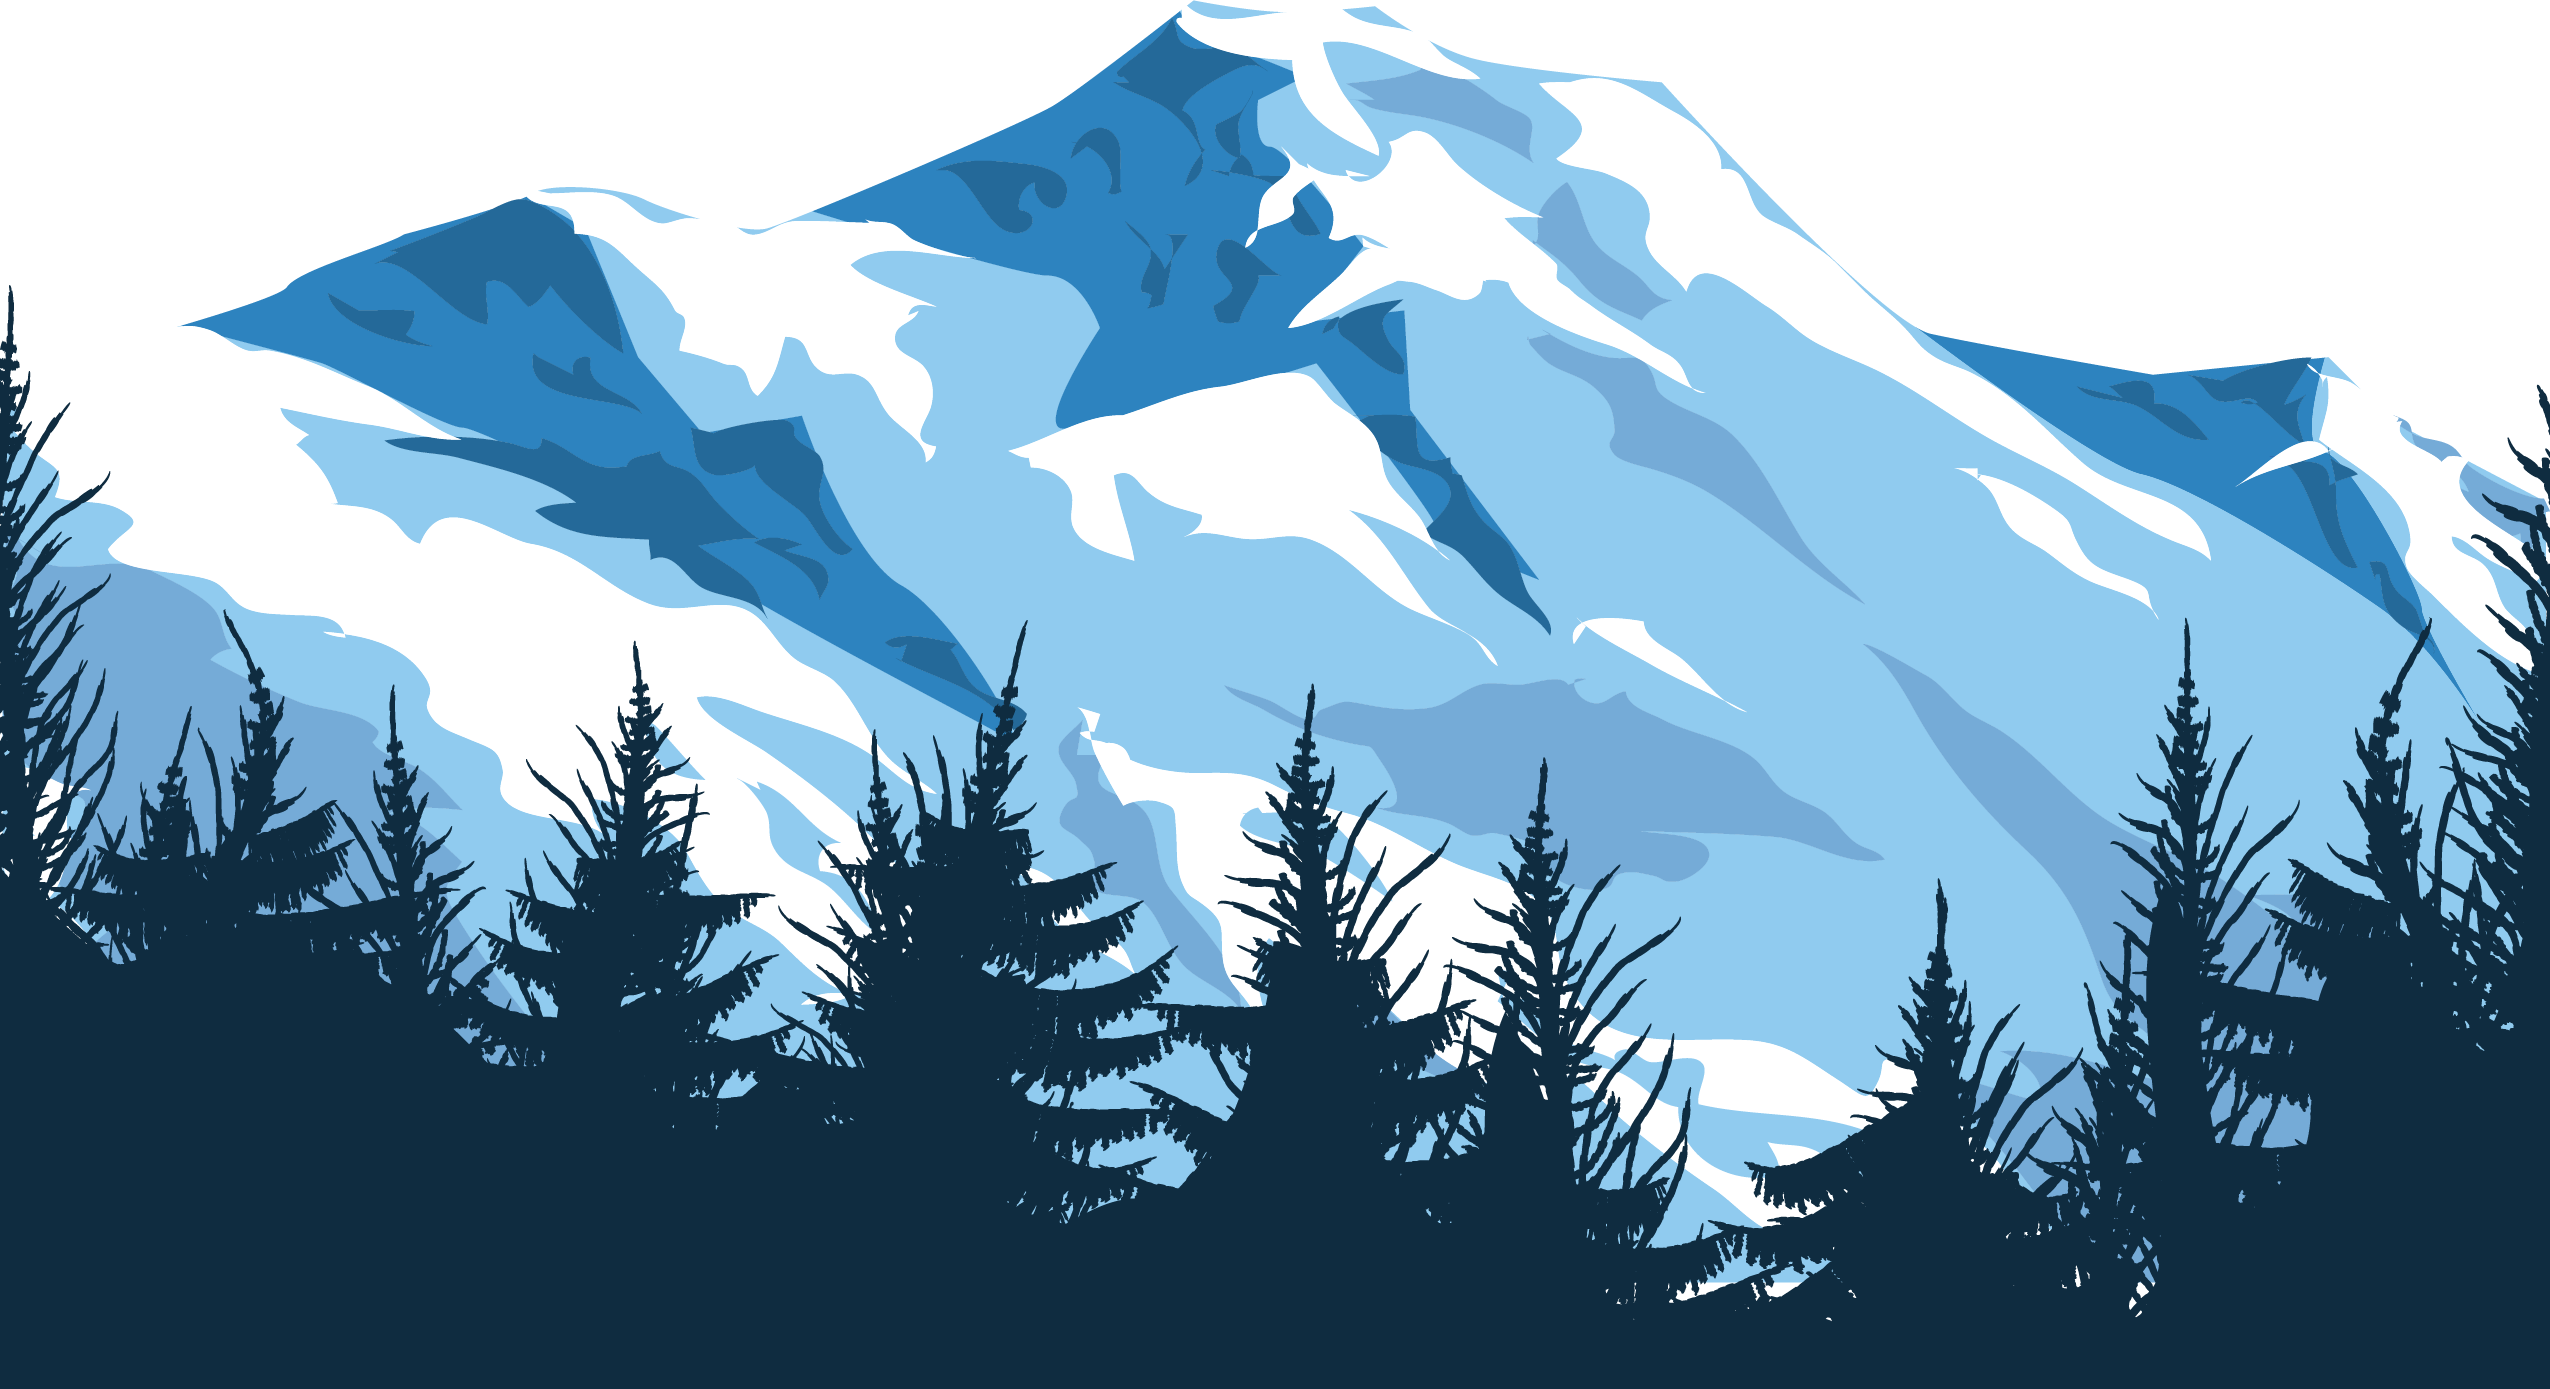
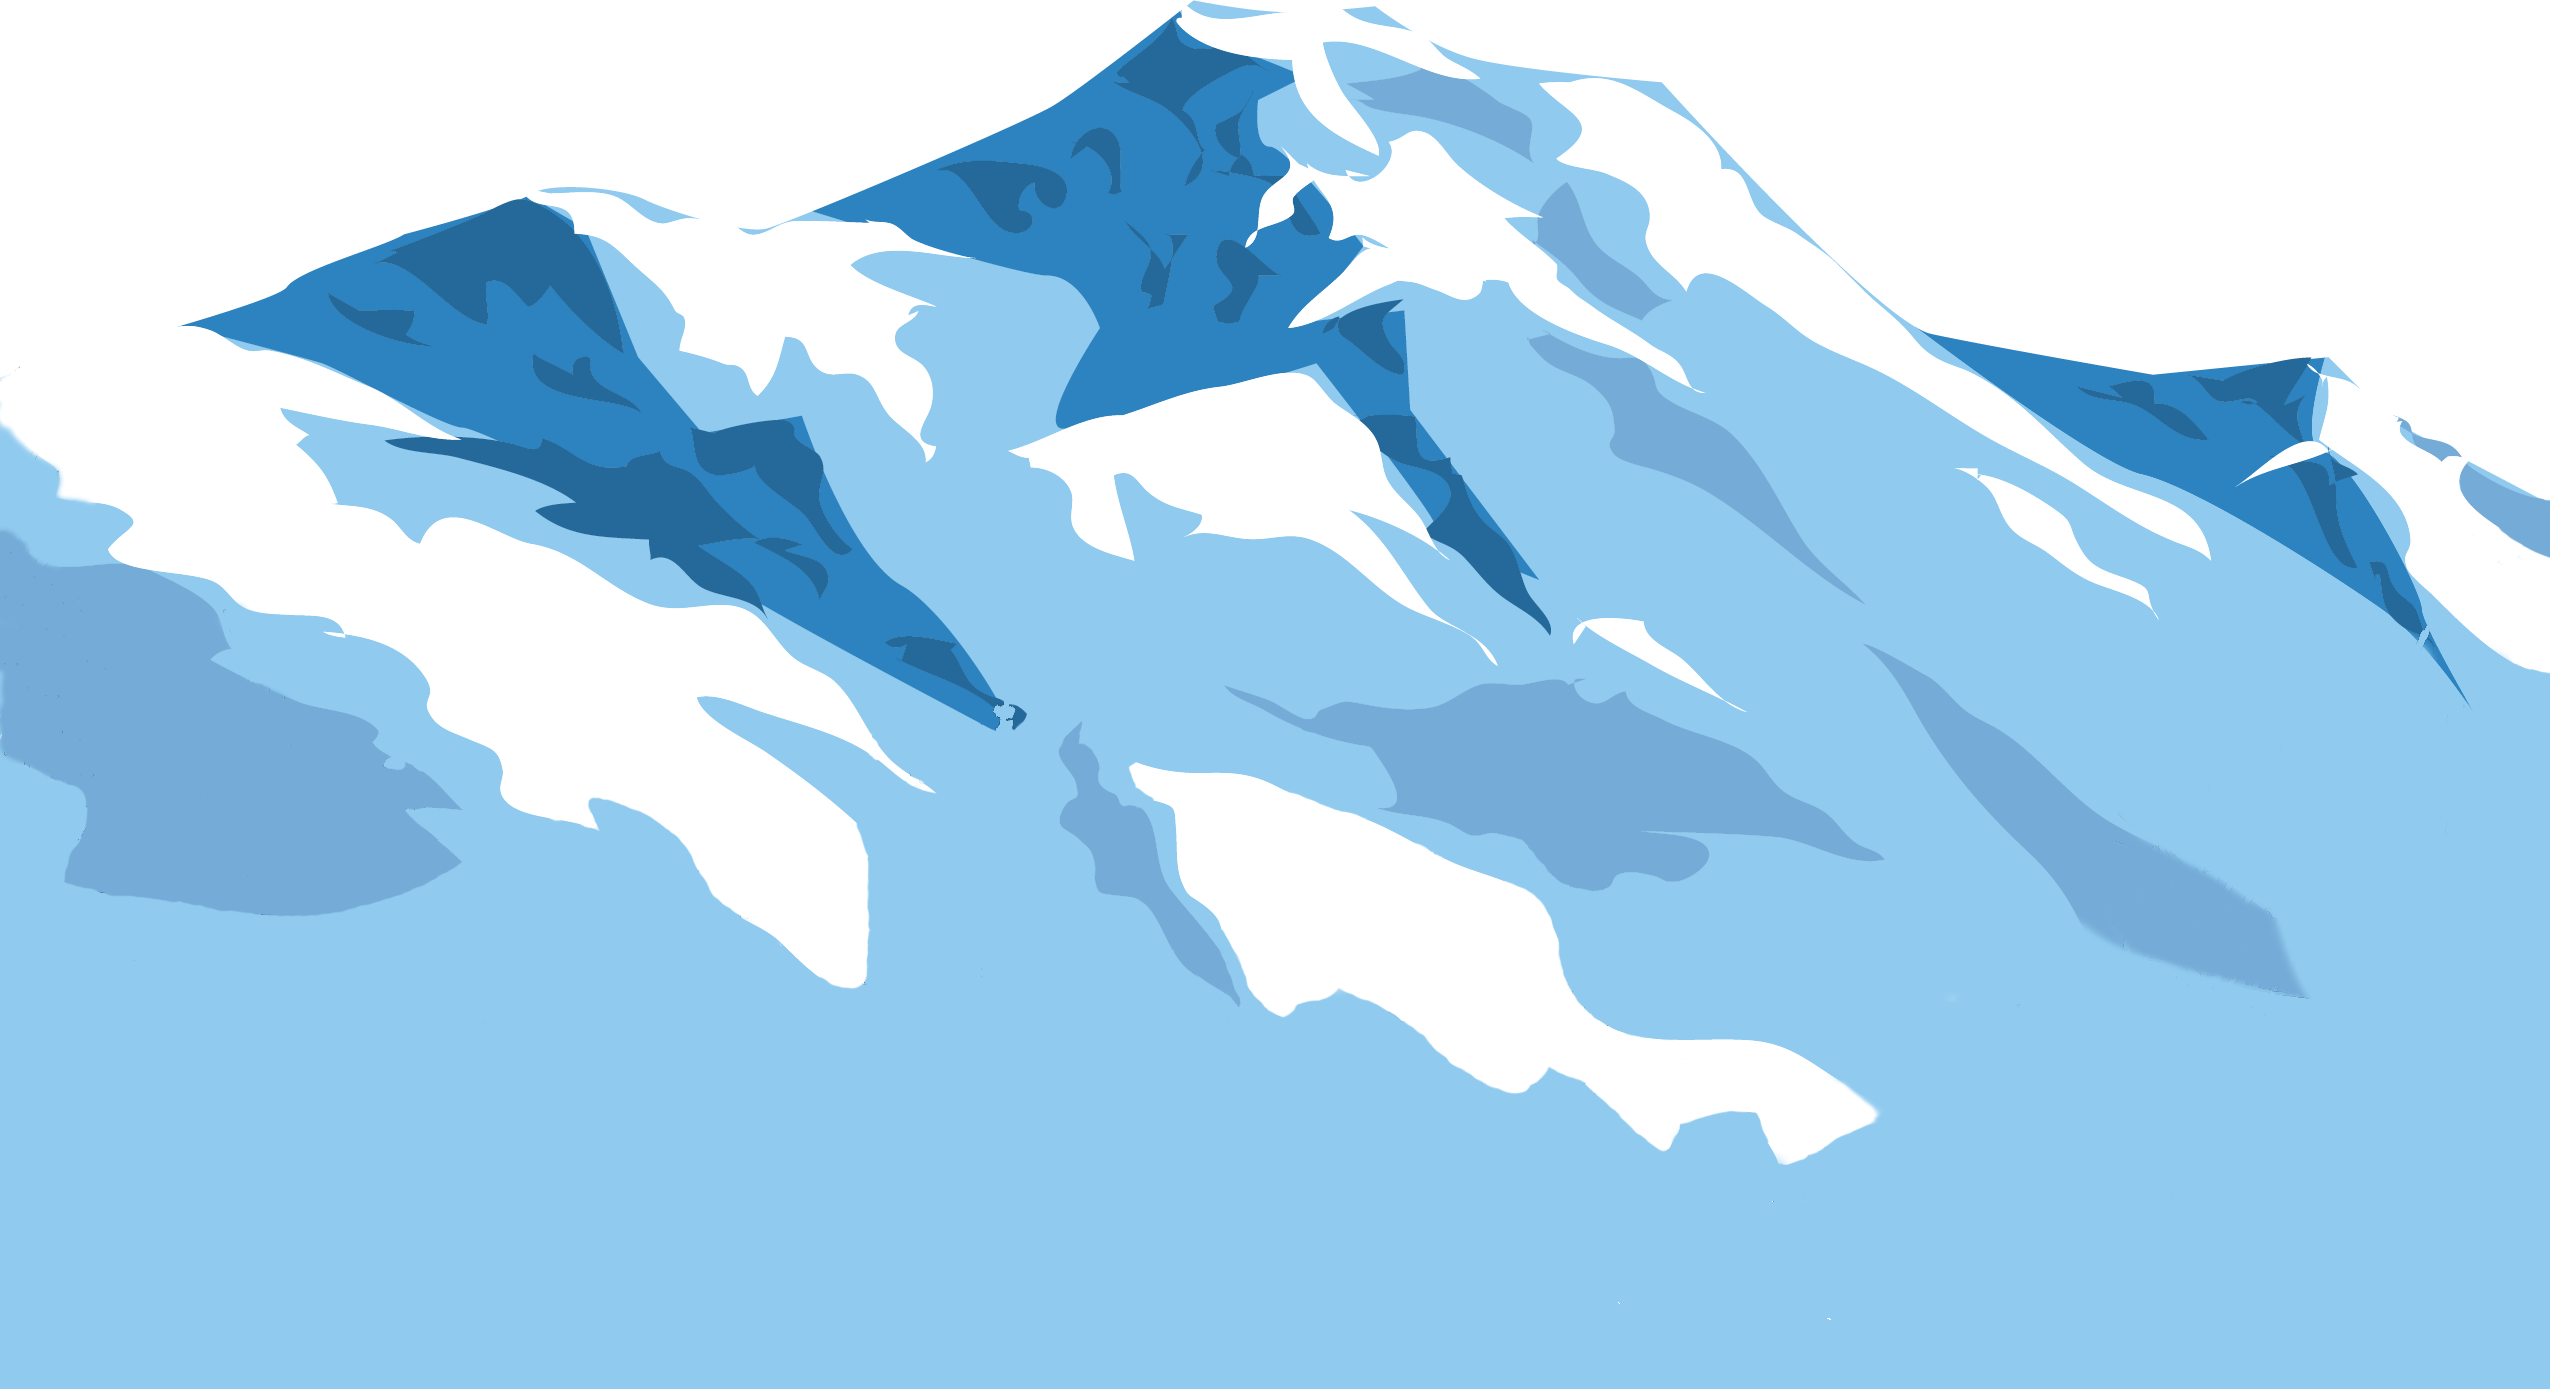
background separation

diff --git a/static/index.css b/static/index.css
@@ -18,27 +18,6 @@ body, html {
     width: 100vw;
 }
 
-/* Possible to combine these with inheritance */
-.left_trees{
-    height: 100vh;
-    width: 50vw;
-}
-
-.left_trees img {
-    z-index: 1;
-    position: relative;
-}
-
-.right_trees{
-    height: 100vh;
-    width: 50vw;
-}
-
-.right_trees img {
-    z-index: 1;;
-    position: relative;
-}
-
 header {
     font-size: 5em;
     font-family: "Akshar", sans-serif;
@@ -56,18 +35,6 @@ nav {
     z-index: 11;
 }
 
-/* .begin-journey {
-    font-family: "Akshar", sans-serif;
-    font-size: 2em;
-    color: white;
-    text-decoration: none;
-    padding: 10px 20px;
-    background-color: rgba(0, 0, 0, 0.5);
-    border-radius: 20px;
-    transition: background-color 0.3s;
-    z-index: inherit;
-} */
-
 .begin-journey {
     font-family: "Akshar", sans-serif;
     font-size: 2em;
@@ -77,7 +44,7 @@ nav {
     height: 200px; 
     line-height: 200px; 
     text-align: center;
-    background-color: rgba(115, 204, 255, 1); 
+    background-color: rgba(0, 0, 0, 0.8); 
     border: 2px solid rgba(0, 0, 0, 0.5); 
     border-radius: 50%; 
     transition: background-color 0.3s, border-color 0.3s; 
@@ -86,77 +53,12 @@ nav {
 }
 
 .begin-journey:hover {
-    background-color: rgba(0, 0, 0, 0.8);
+    /* background-color: rgba(115, 204, 255, 0.8); */
+    background-color: rgba(0, 0, 0, 1);
     z-index: inherit;
 }
 
-/* All left bound vegetation*/
-#tree1 {
-    position: absolute;
-    left: 0;
-    bottom: 0; /* Aligns the image at the bottom-left corner of its container */
-    height: auto; /* Maintains aspect ratio */
-    width: 60vw; /* Adjust based on desired size */
-    z-index: 10;
-}
-
-#tree2 {
-    position: absolute;
-    left: 0;
-    bottom: 0; /* Aligns the image at the bottom-left corner of its container */
-    height: 95vh; /* Maintains aspect ratio */
-    width: 60vw; /* Adjust based on desired size */ 
-    z-index: 2;
-}
-
-#bush4 {
-    position: absolute;
-    left: 0;
-    bottom: 0; /* Aligns the image at the bottom-left corner of its container */
-    height: 500px; /* Maintains aspect ratio */
-    width: 30vw; /* Adjust based on desired size */ 
-    z-index: 9 
-}
-
-/* All right-bound vegetation*/
-#tree1b {
-    position: absolute;
-    right: 0;
-    bottom: 0; /* Aligns the image at the bottom-left corner of its container */
-    height: auto; /* Maintains aspect ratio */
-    width: 60vw; /* Adjust based on desired size */
-    z-index: 10;
-}
-
-#tree2b {
-    position: absolute;
-    right: 0;
-    bottom: 0; /* Aligns the image at the bottom-left corner of its container */
-    height: 95vh; /* Maintains aspect ratio */
-    width: 60vw; /* Adjust based on desired size */ 
-    z-index: 2;
-}
-
-#bush4b {
-    position: absolute;
-    right: 0;
-    bottom: 0; /* Aligns the image at the bottom-left corner of its container */
-    height: 500px; /* Maintains aspect ratio */
-    width: 30vw; /* Adjust based on desired size */ 
-    z-index: 9  
-}
-
-/* General images */
-#grass {
-    position: absolute;
-    left:0;
-    bottom: 0;
-    z-index: 2;
-    height: auto;
-    width: 100vw;
-}
-
-#hill1{
+#mountain{
     position: absolute;
     z-index: 1;
     bottom: 0;
@@ -164,9 +66,19 @@ nav {
     width: 100vw;
 }
 
-#mountain{
+#left_trees{
     position: absolute;
     z-index: 1;
+    left: 0;
+    bottom: 0;
+    height: 100vh;
+    width: 100vw;
+}
+
+#right_trees{
+    position: absolute;
+    z-index: 1;
+    right: 0;
     bottom: 0;
     height: 100vh;
     width: 100vw;

diff --git a/templates/index.html b/templates/index.html
@@ -9,19 +9,10 @@
 <body>
     <div class="container">
         <nav><a href="home.html" class="begin-journey">MEET ANDY</a></nav>
-        <!-- <div class="left_trees">
-            <img src="/images/tree1.png" id="tree1">
-            <img src="/images/tree2c.png" id="tree2">
-            <img src="/images/bush4.png" id="bush4">
-        </div>
-        <div class="right_trees">
-            <img src="/images/tree1b.png" id="tree1b">
-            <img src="/images/tree2b.png" id="tree2b">
-            <img src="/images/bush4.png" id="bush4b">
-        </div> -->
     </div>
-    <!-- <img src="/images/grass2.png" id="grass"> -->
     <img src="/images/mountain.png" id="mountain">
+    <img src="/images/left_trees.png" id="left_trees">
+    <img src="/images/right_trees.png" id="right_trees">
     <script src="/static/script.js"></script>
 </body>
 </html>
